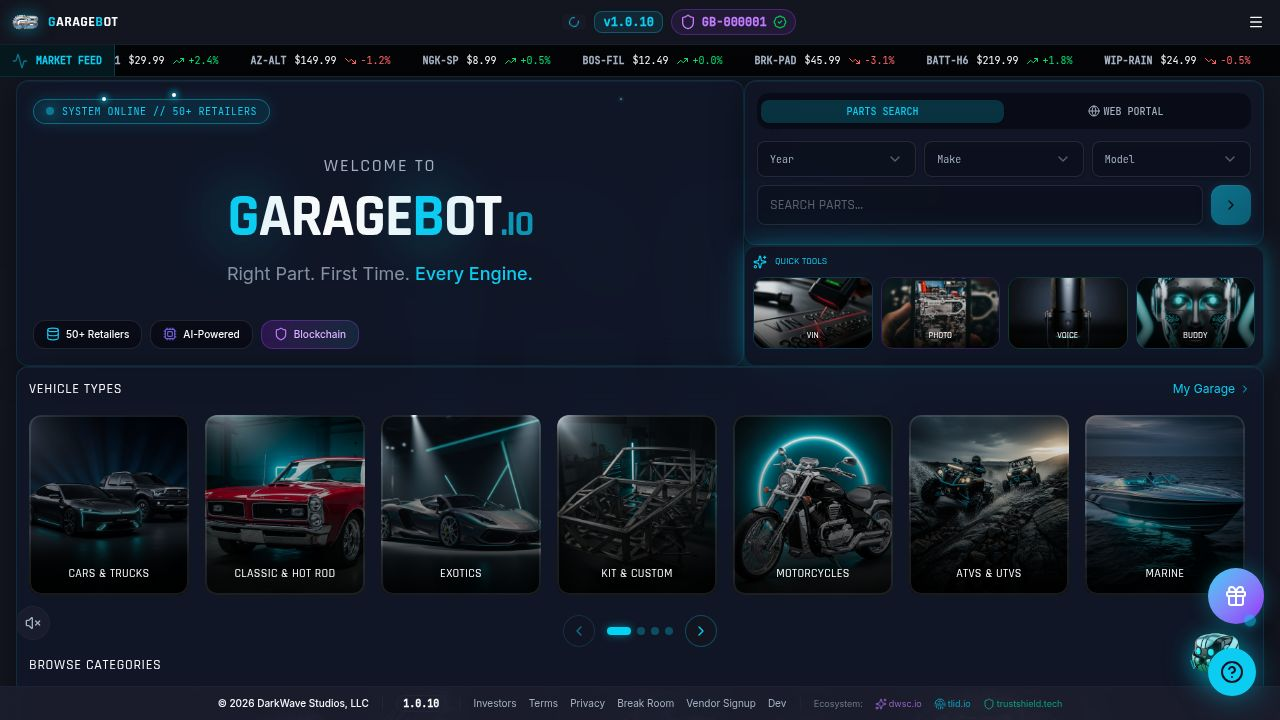
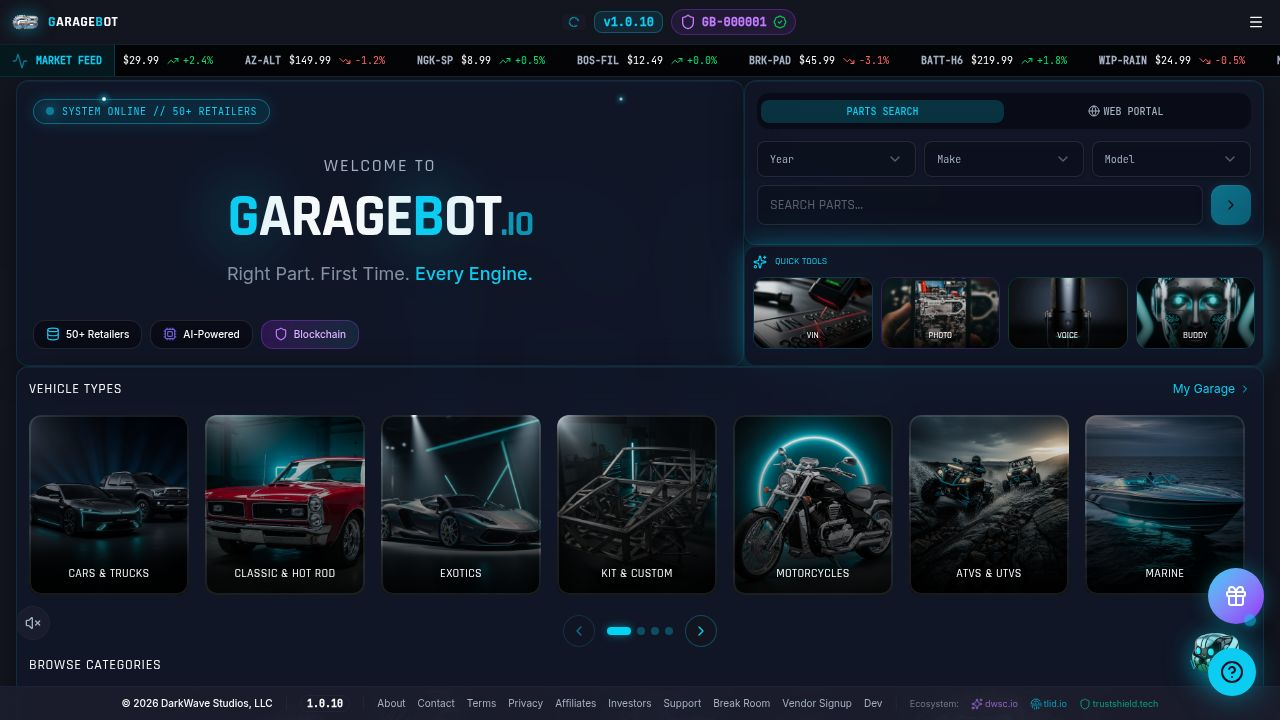
Remove distracting floating buttons and reorganize footer layout
Removes `FloatingHelp` and `SpinToWin` components from `App.tsx` and `Home.tsx` respectively, and refactors the `Footer.tsx` component to use a two-row layout, improving visual hierarchy and user experience.

Replit-Commit-Author: Agent
Replit-Commit-Session-Id: f1166ccb-9333-4ee3-b37c-47b90f1a2bfe
Replit-Commit-Checkpoint-Type: intermediate_checkpoint
Replit-Commit-Event-Id: 44e043be-4748-4b75-92a7-585c2eff2cac
Replit-Commit-Screenshot-Url: https://storage.googleapis.com/screenshot-production-us-central1/61f82902-728d-4d48-9085-7700c909b4d3/f1166ccb-9333-4ee3-b37c-47b90f1a2bfe/1hCEnSz

diff --git a/client/src/components/Footer.tsx b/client/src/components/Footer.tsx
@@ -28,48 +28,49 @@ export default function Footer() {
   });
 
   return (
-    <footer className="sticky-footer border-t border-border/30 bg-card/95 backdrop-blur-md py-2">
-      <div className="container mx-auto px-4">
-        <div className="flex flex-wrap items-center justify-center gap-x-3 gap-y-1 text-[10px] text-muted-foreground">
-          <span className="font-medium text-foreground">© {new Date().getFullYear()} DarkWave Studios, LLC</span>
-          <span className="hidden sm:inline text-border">|</span>
+    <footer className="sticky-footer border-t border-border/30 bg-card/95 backdrop-blur-md py-3">
+      <div className="container mx-auto px-4 space-y-2">
+        <div className="flex flex-wrap items-center justify-center gap-x-4 gap-y-1 text-[10px] text-muted-foreground">
+          <Link href="/about" className="hover:text-primary transition-colors" data-testid="footer-link-about">About</Link>
+          <Link href="/contact" className="hover:text-primary transition-colors" data-testid="footer-link-contact">Contact</Link>
+          <Link href="/support" className="hover:text-primary transition-colors" data-testid="footer-link-support">Support</Link>
+          <span className="text-border">|</span>
+          <Link href="/terms" className="hover:text-primary transition-colors" data-testid="footer-link-terms">Terms</Link>
+          <Link href="/privacy" className="hover:text-primary transition-colors" data-testid="footer-link-privacy">Privacy</Link>
+          <Link href="/affiliate-disclosure" className="hover:text-primary transition-colors" data-testid="footer-link-affiliate">Affiliates</Link>
+          <span className="text-border">|</span>
+          <Link href="/investors" className="hover:text-primary transition-colors" data-testid="footer-link-investors">Investors</Link>
+          <Link href="/vendor-signup" className="hover:text-primary transition-colors" data-testid="footer-link-vendor">Vendor Signup</Link>
+          <Link href="/break-room" className="hover:text-primary transition-colors" data-testid="footer-link-breakroom">Break Room</Link>
+          <Link href="/dev" className="hover:text-primary transition-colors" data-testid="footer-link-dev">Dev Portal</Link>
+        </div>
+
+        <div className="flex flex-wrap items-center justify-center gap-x-3 gap-y-1 text-[9px] text-muted-foreground/70">
+          <span className="font-medium text-foreground/80">&copy; {new Date().getFullYear()} DarkWave Studios, LLC</span>
+          <span className="text-border/50">|</span>
           {latestRelease?.version ? (
             <Badge 
               variant="outline" 
-              className="text-[10px] font-mono py-0 px-1.5 border-border/50"
+              className="text-[9px] font-mono py-0 px-1.5 border-border/40"
               data-testid="badge-version"
             >
               {latestRelease.version}
             </Badge>
           ) : (
-            <span className="font-mono text-primary/80">v1.0.0</span>
+            <span className="font-mono text-primary/60">v1.0.0</span>
           )}
-          <span className="hidden sm:inline text-border">|</span>
-          <Link href="/about" className="hover:text-primary transition-colors" data-testid="footer-link-about">About</Link>
-          <Link href="/contact" className="hover:text-primary transition-colors" data-testid="footer-link-contact">Contact</Link>
-          <Link href="/terms" className="hover:text-primary transition-colors" data-testid="footer-link-terms">Terms</Link>
-          <Link href="/privacy" className="hover:text-primary transition-colors" data-testid="footer-link-privacy">Privacy</Link>
-          <Link href="/affiliate-disclosure" className="hover:text-primary transition-colors" data-testid="footer-link-affiliate">Affiliates</Link>
-          <Link href="/investors" className="hover:text-primary transition-colors" data-testid="footer-link-investors">Investors</Link>
-          <Link href="/support" className="hover:text-primary transition-colors" data-testid="footer-link-support">Support</Link>
-          <Link href="/break-room" className="hover:text-primary transition-colors" data-testid="footer-link-breakroom">Break Room</Link>
-          <Link href="/vendor-signup" className="hover:text-primary transition-colors" data-testid="footer-link-vendor">Vendor Signup</Link>
-          <Link href="/dev" className="hover:text-primary transition-colors" data-testid="footer-link-dev">Dev</Link>
-          
-          {/* Ecosystem Links */}
-          <span className="hidden sm:inline text-border">|</span>
-          <span className="hidden sm:inline text-[9px] text-muted-foreground/60">Ecosystem:</span>
+          <span className="hidden sm:inline text-border/50">|</span>
           {ecosystemLinks.map((site) => (
             <a
               key={site.name}
               href={site.url}
               target="_blank"
               rel="noopener noreferrer"
-              className={`hidden sm:inline-flex items-center gap-0.5 hover:opacity-100 opacity-70 transition-opacity ${site.color}`}
+              className={`hidden sm:inline-flex items-center gap-0.5 hover:opacity-100 opacity-60 transition-opacity ${site.color}`}
               data-testid={`footer-ecosystem-${site.name.toLowerCase().replace(/\s/g, '-')}`}
             >
-              <site.icon className="w-3 h-3" />
-              <span className="text-[9px]">{site.url.replace('https://', '')}</span>
+              <site.icon className="w-2.5 h-2.5" />
+              <span>{site.url.replace('https://', '')}</span>
             </a>
           ))}
         </div>

diff --git a/client/src/pages/Home.tsx b/client/src/pages/Home.tsx
@@ -29,7 +29,7 @@ import NativeProductRecs from "@/components/NativeProductRecs";
 import DailyFunFact from "@/components/DailyFunFact";
 import VehicleShowcase from "@/components/VehicleShowcase";
 import AchievementBadges from "@/components/AchievementBadges";
-import SpinToWin from "@/components/SpinToWin";
+
 import useSoundEffects from "@/hooks/useSoundEffects";
 import { Volume2, VolumeX } from "lucide-react";
 
@@ -990,8 +990,6 @@ export default function Home() {
         {soundEnabled ? <Volume2 className="w-4 h-4 text-primary" /> : <VolumeX className="w-4 h-4 text-muted-foreground" />}
       </button>
 
-      {/* Spin to Win */}
-      <SpinToWin />
       
       {/* Footer - Dynamic Version */}
       <Footer />

diff --git a/client/src/App.tsx b/client/src/App.tsx
@@ -8,7 +8,7 @@ import { useAnalytics } from "@/hooks/useAnalytics";
 import { useAuth } from "@/hooks/useAuth";
 import WelcomeGate from "@/components/WelcomeGate";
 import AIMascot from "@/components/AIMascot";
-import FloatingHelp from "@/components/FloatingHelp";
+
 import RatingPrompt from "@/components/RatingPrompt";
 import BuddyHideSeek from "@/components/BuddyHideSeek";
 import AddToHomeScreen from "@/components/AddToHomeScreen";
@@ -139,7 +139,7 @@ function App() {
           <Router />
           <AIMascot mascotName="Buddy" />
           <RatingPrompt />
-          <FloatingHelp />
+
           <CookieConsent />
           <AuthAwareExtras />
         </TooltipProvider>
